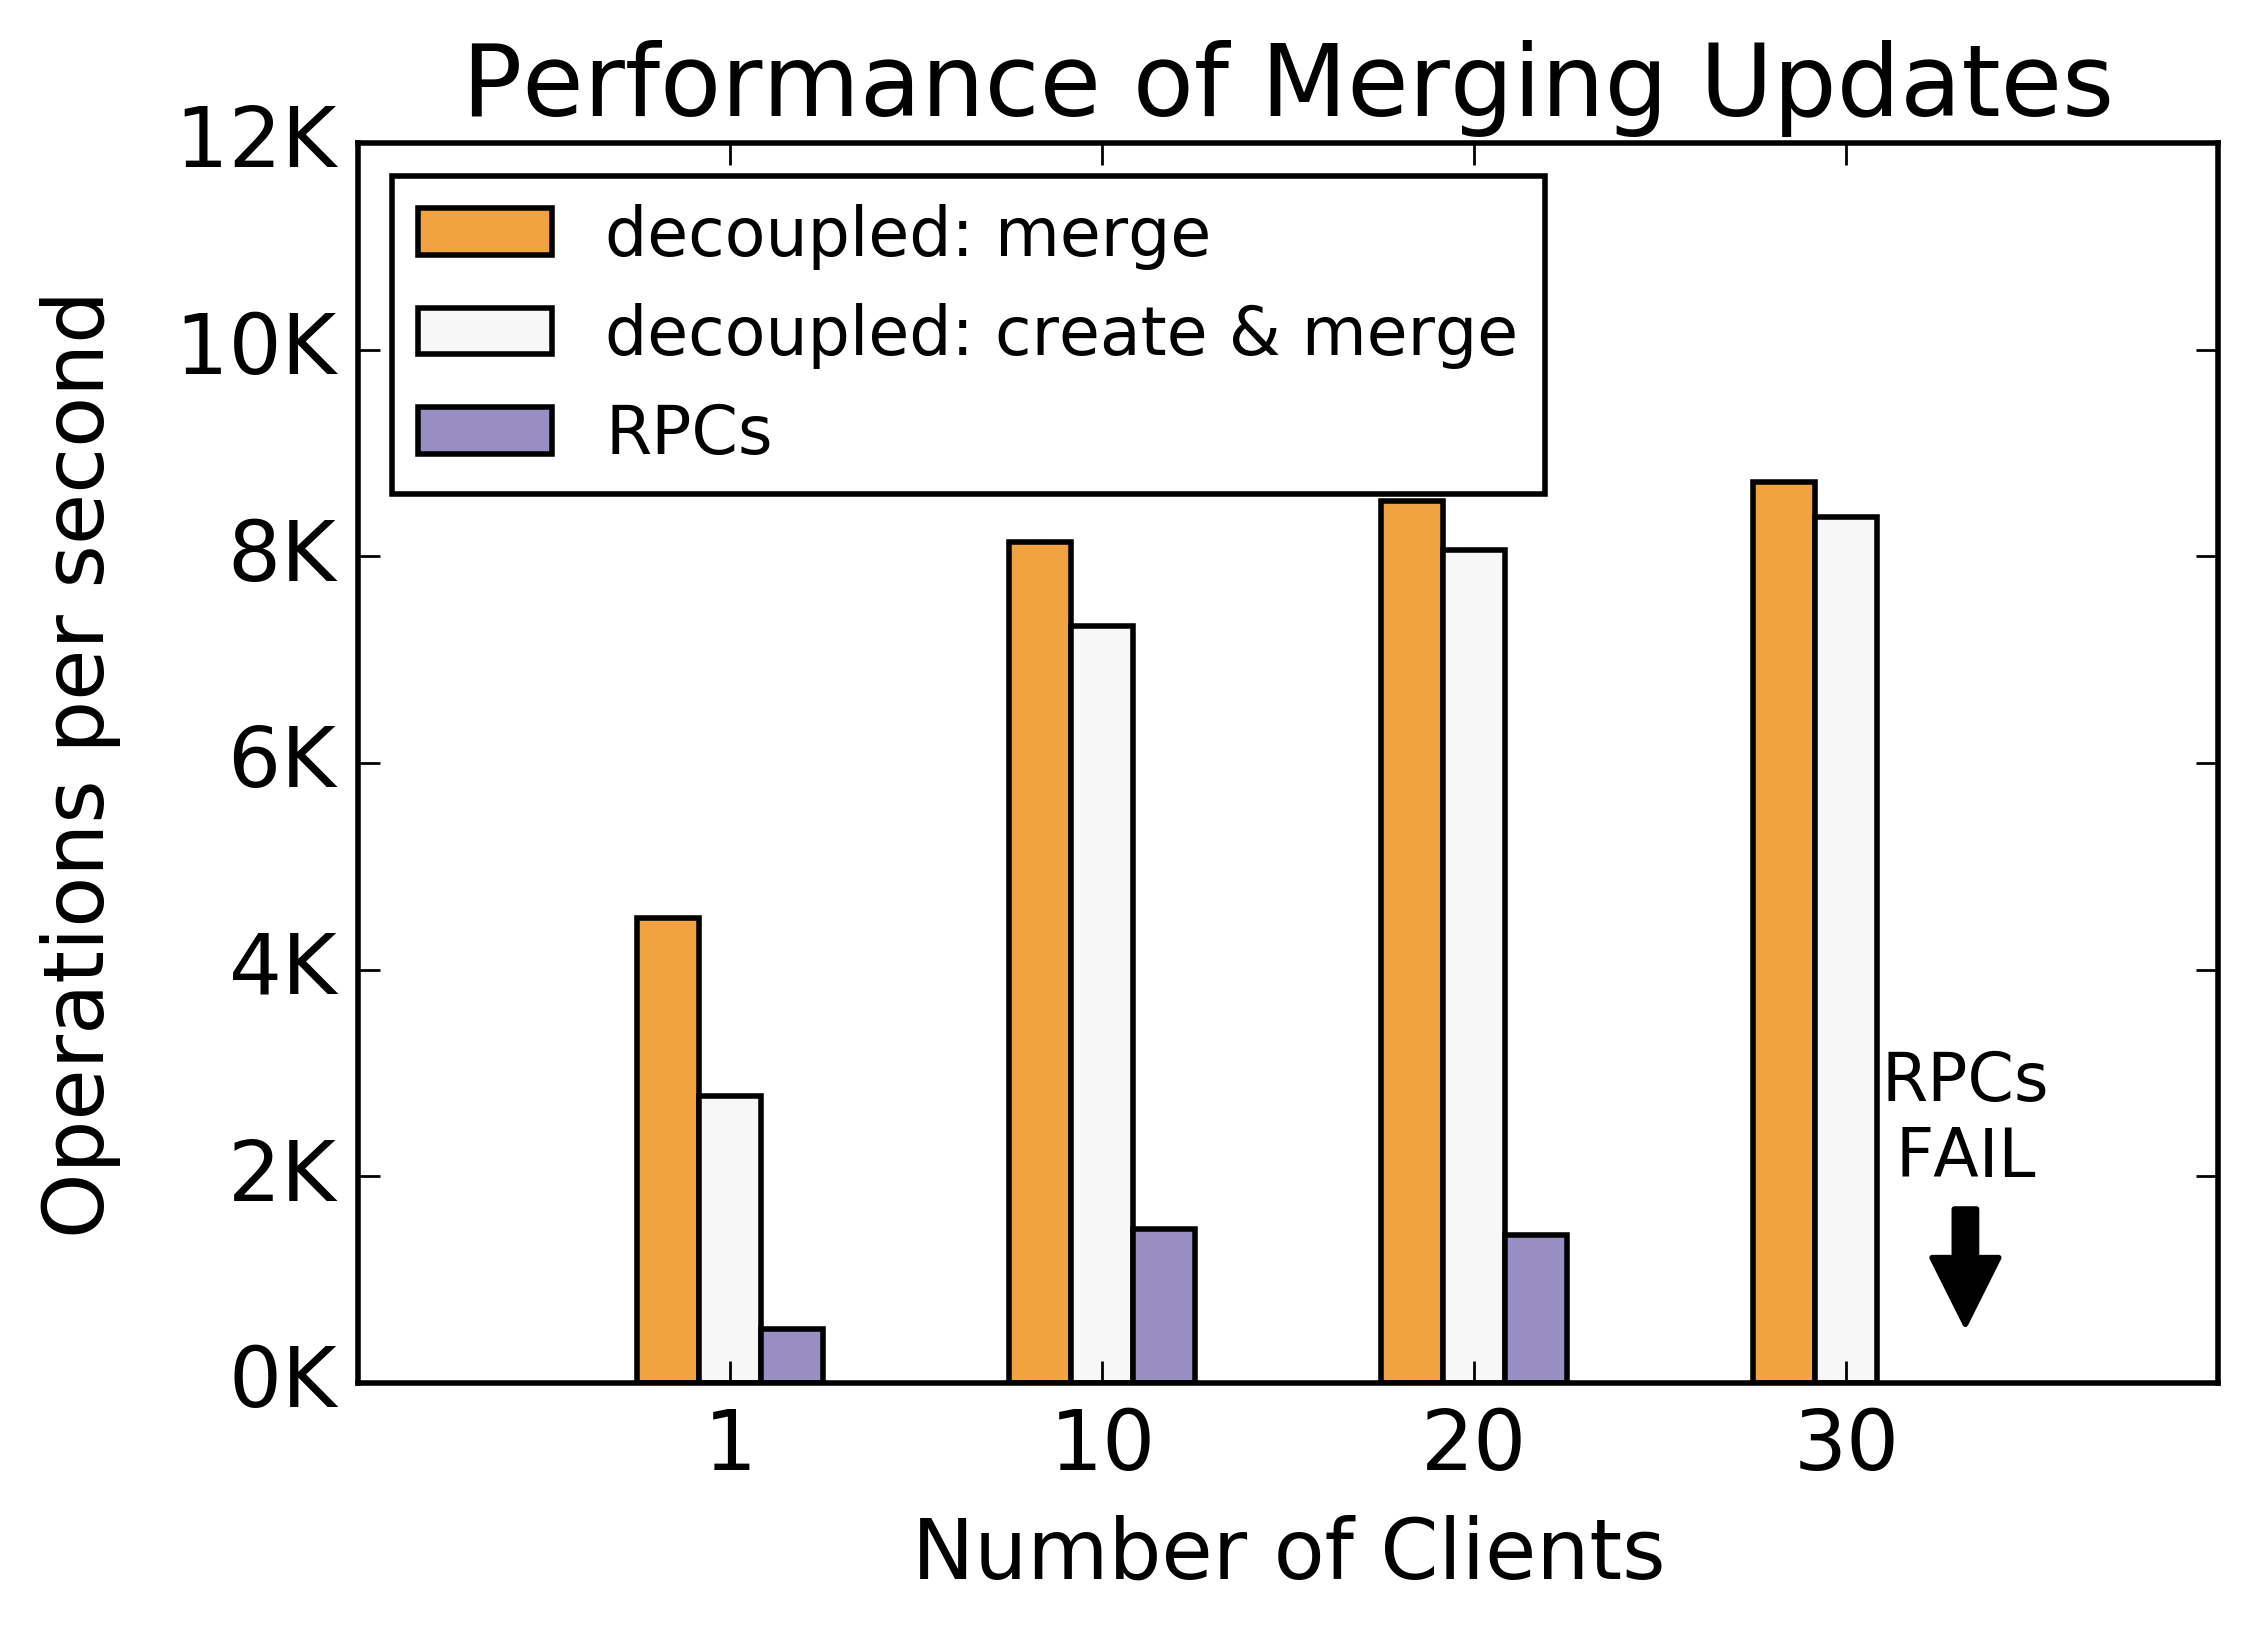
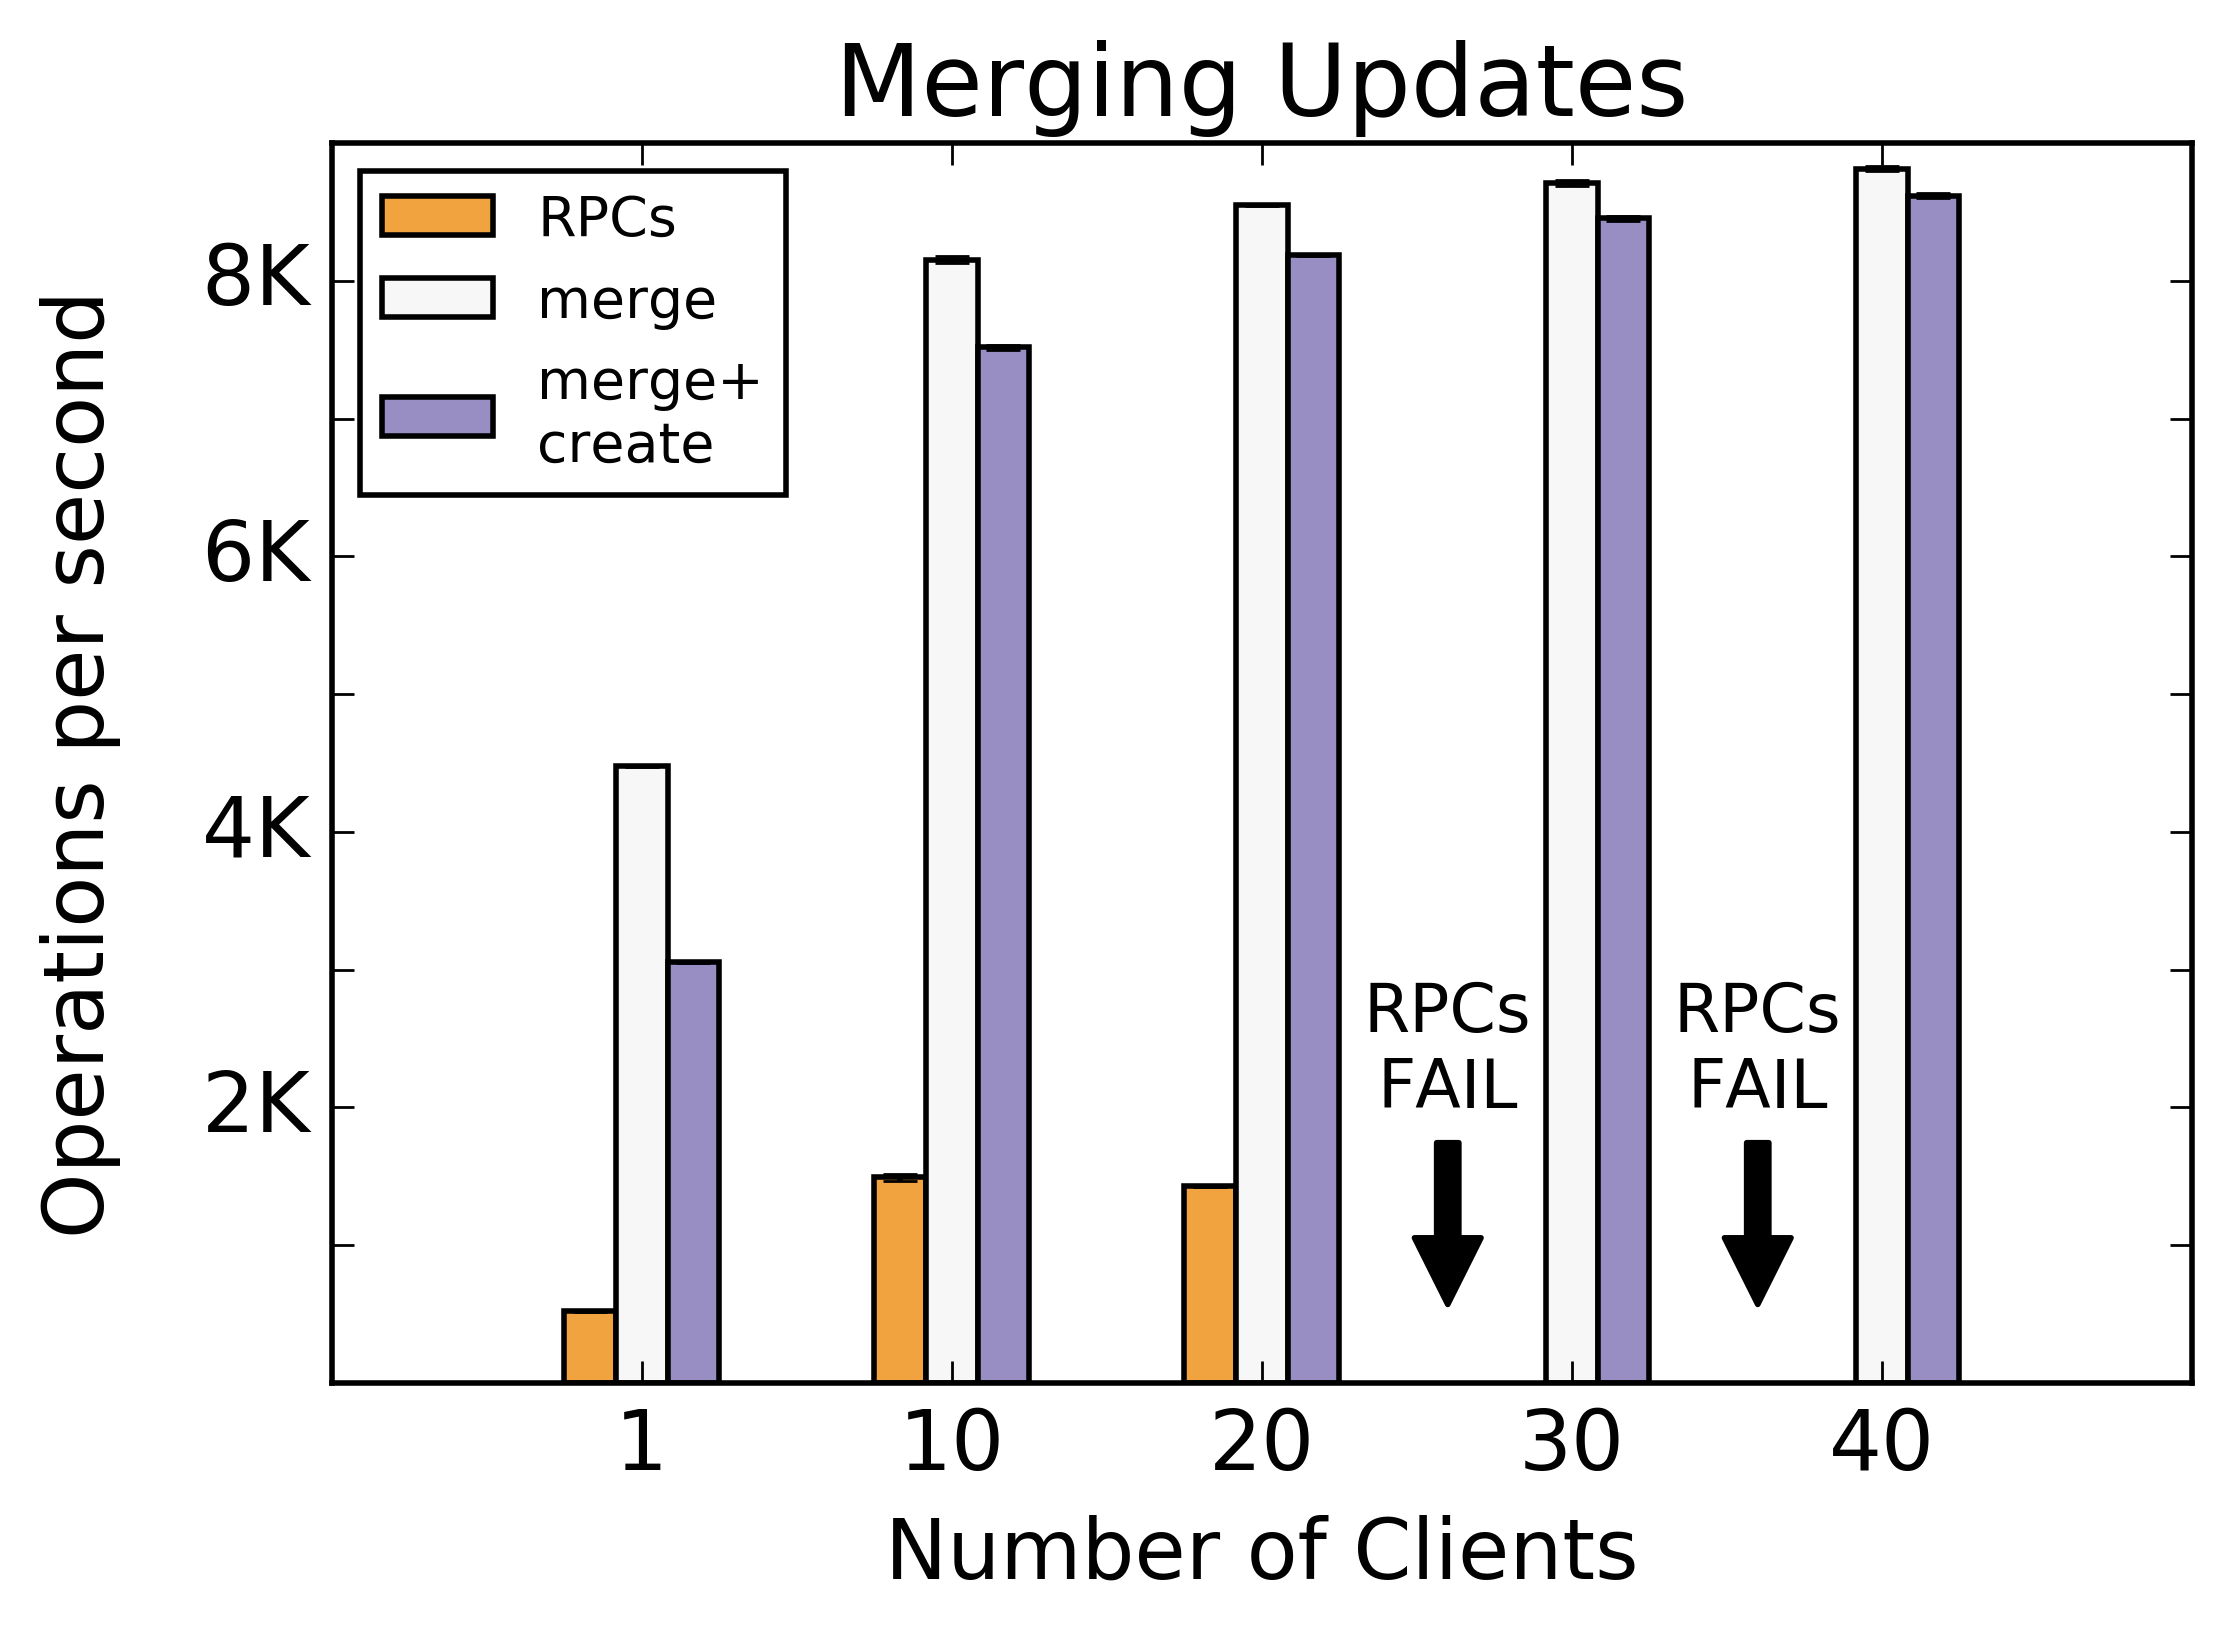
paper: add last graph

Changed region(s): [[0.0619, 0.0312, 0.9278, 0.967], [0.2784, 0.4679, 0.3093, 0.4991]]

diff --git a/paper/sections/3_posix_overheads.tex b/paper/sections/3_posix_overheads.tex
@@ -74,10 +74,10 @@ will not be lost. Local durability means that metadata can be lost if the
 client or server stays down after a failure. None means that metadata is volatile
 and that the system provides no guarantees when clients or servers fail. 
 None is different than local durability because regardless of the type failure,
-metadata will be lost when components die in a None configuration.\\
+metadata will be lost when components die in a None configuration.
 
 % - sequential IO, trim redundant operations
-\noindent\textbf{CephFS Design}: a journal of metadata updates that streams into
+\textbf{CephFS Design}: a journal of metadata updates that streams into
 the resilient object store. Similar to LFS~\cite{rosenblum:acm1992-LFS} and
 WAFL~\cite{hitz:wtec1994-WAFL} the metadata journal is designed to grow to large which
 ensures (1) sequential writes into the object store and (2) the ability for daemons to
@@ -114,9 +114,9 @@ the metadata server periodically stops serving requests to flush ({\it i.e.}
 apply journal updates) to the metadata store.  The journal overhead is
 sufficient enough to slow down metadata throughput but not so much as to
 overwhelm the bandwidth of the object store. We measured our peak bandwidth to
-be 100MB/s, which is the speed of our network link.\\
+be 100MB/s, which is the speed of our network link.
 
-\noindent\textbf{Comparison to decoupled namespaces}: In BatchFS and DeltaFS,
+\textbf{Comparison to decoupled namespaces}: In BatchFS and DeltaFS,
 to the best of our knowledge, when a client or server fails there is no recovery
 scheme. For BatchFS, if a client fails when it is writing to the local
 log-structured merged tree (implemented as an SSTable) then those batched
@@ -133,9 +133,9 @@ distributed file system.
 Access to metadata in a POSIX IO-compliant file system is strongly consistent, so
 reads and writes to the same inode or directory are globally ordered.  The
 synchronization and serialization machinery needed to ensure that all clients
-see the same state has high overhead.\\
+see the same state has high overhead.
 
-\noindent\textbf{CephFS Design}: capabilities keep metadata strongly
+\textbf{CephFS Design}: capabilities keep metadata strongly
 consistent. To reduce the number of RPCs needed for consistency, clients can
 obtain capabilities for reading, creating and updating inodes, as well as caching reads,
 buffering writes, changing the file size, and performing lazy IO.
@@ -167,12 +167,12 @@ each client creates files in private directories and at 30 seconds we launch
 another process that creates files in those directories. 18 clients is the
 maximum number the metadata server could handle for this metadata-intensive
 workload; at higher client load, the metadata server started complaining about
-laggy and unresponsive requests.\\
+laggy and unresponsive requests.
 
 % TODO: what is the cost of trimming the cache?
 % TODO: does CephFS still cache inodes when I turn off caching? Why is still keeping inodes in memory? Gah!
 
-\noindent\textbf{Comparison to decoupled namespaces}: Decoupled namespaces
+\textbf{Comparison to decoupled namespaces}: Decoupled namespaces
 merge batches of metadata operations into the global namespaces when the job
 completes.  In BatchFS the merge is delayed by the application using an API to
 switch between asynchronous to synchronous mode. The merge itself is explicitly

diff --git a/paper/sections/6_results.tex b/paper/sections/6_results.tex
@@ -155,13 +155,13 @@ consistency/durability guarantees.\\
       \caption{Use Case 3}
       \label{fig:slowdown-sync}
   \end{subfigure}
-  \caption{The performance and features of Cudele. (a) shows the performance of
-merging client journals at the metadata server. Performance is better than RPCs
+\caption{The performance and features of Cudele. (a) shows the cost of
+merging client journals at the metadata server. Merging is better than RPCs
 because there are less messages and consistency/durability code paths are
-bypassed. (b) shows how the allow/block API can isolate directories from
-interfering clients.  (c) shows the slowdown of a single client periodically
-syncing updates to the gobal namespace. The inflection point is the trade-off
-of frequent updates vs. larger journal files.\label{fig:use-cases}}
+bypassed. In (b), the allow/block API isolates directories from interfering
+clients. (c) is the slowdown of a single client syncing updates to the gobal
+namespace. The inflection point is the trade-off of frequent updates vs. larger
+journal files.\label{fig:use-cases}}
 \end{figure*}
 
 

diff --git a/paper/paper.tex b/paper/paper.tex
@@ -14,6 +14,7 @@
     urlcolor=cyan,
 }
 \usepackage[noadjust]{cite}
+\setlength{\belowcaptionskip}{-8pt}
 
 
 
